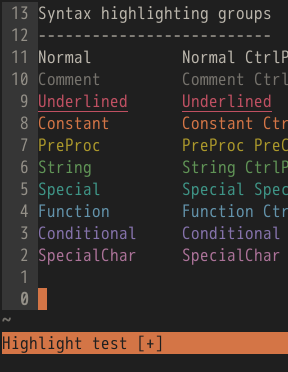
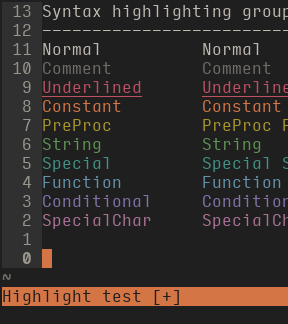
update screenshots

Changed region(s): [[0.0312, 0.0, 1.0, 0.8333], [0.0, 0.8333, 1.0, 0.9568]]

diff --git a/transmogrify.md b/transmogrify.md
@@ -28,23 +28,14 @@
 %s/a16946/ab7298/ |
 
 %s/Character",    s:gui08, "", s:cterm08/Character",    s:gui09, "", s:cterm09/ |
-
 %s/Cursor",        s:gui00, s:gui05, s:cterm00, s:cterm05/Cursor",        s:gui00, s:gui09, s:cterm00, s:cterm09/ |
-
 %s/Identifier",   s:gui08, "", s:cterm08, "", "none/Identifier",   s:gui09, "", s:cterm09, "", "bold/ |
-
 %s/LineNr",        s:gui03, s:gui01, s:cterm03/LineNr",        s:gui04, s:gui01, s:cterm04/ |
-
 %s/Search",        s:gui03, s:gui0A, s:cterm03, s:cterm0A,  "", "")/Search",        s:gui00, s:gui0A, s:cterm00, s:cterm0A,  "", "")/ |
-
 %s/statusline",    s:gui04, s:gui02, s:cterm04, s:cterm02/statusline",    s:gui00, s:gui09, s:cterm00, s:cterm09/ |
-
 %s/StatusLineNC",  s:gui03, s:gui01, s:cterm03, s:cterm01/StatusLineNC",  s:gui05, s:gui01, s:cterm05, s:cterm01/ |
-
 %s/Visual",        "", s:gui02, "", s:cterm02/Visual",        s:gui06, s:gui02, s:cterm06, s:cterm02/ |
-
 %s/VisualNOS",     s:gui08, "", s:cterm08, "", ""/VisualNOS",     "", s:gui01, "", s:cterm01, "none"/ |
-
 %s/WildMenu",      s:gui08, s:gui0A, s:cterm08, ""/WildMenu",      s:gui00, s:gui06, s:cterm00, s:cterm06/ |
 
 normal =gg
@@ -81,7 +72,5 @@ normal =gg
 %s/f8f8f8/fff8eb/ge |
 
 call append(123,["",
-"echo -ne '\\e]12;#d47546\\a'"]) |
-
-normal =gg
+"echo -ne '\\e]12;#d47546\\a'"])
 ```
